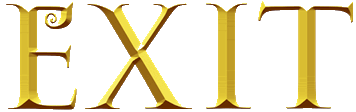
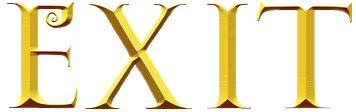
v

diff --git a/src/core/ProporzionaImmagine.java b/src/core/ProporzionaImmagine.java
@@ -51,7 +51,7 @@ public class ProporzionaImmagine {
 		}
 		else if(bottone.getButton_name() == StaticVariables.MULTIPLAYER_NAME)
 		{
-			button.setImageWidth(this.pawnCellWidth*11);
+			button.setImageWidth(this.pawnCellWidth*12);
 			button.setImageHeight(this.pawnCellWidth*2);
 		}
 		else if(bottone.getButton_name() == StaticVariables.AI_NAME)
@@ -254,12 +254,10 @@ public class ProporzionaImmagine {
        	this.caricatore_immagini.getScacchieraSfondo().get(StaticVariables.ID_TAVOLO_LEGNO).setX(this.moveToRight-this.pawnCellWidth);
        	this.caricatore_immagini.getScacchieraSfondo().get(StaticVariables.ID_TAVOLO_LEGNO).setY(this.moveToDown-this.pawnCellWidth);
        	
-    	this.caricatore_immagini.getScacchieraSfondo().get(StaticVariables.ID_LOGO).setImageWidth(this.pawnCellWidth*6);
-       	this.caricatore_immagini.getScacchieraSfondo().get(StaticVariables.ID_LOGO).setImageHeight(this.pawnCellWidth*3);
-       	this.caricatore_immagini.getScacchieraSfondo().get(StaticVariables.ID_LOGO).setX(StaticVariables.finestra_width-
-       			(this.caricatore_immagini.getScacchieraSfondo().get(StaticVariables.ID_LOGO).getImageWidth()+StaticVariables.finestra_width/20));
-       	this.caricatore_immagini.getScacchieraSfondo().get(StaticVariables.ID_LOGO).setY(
-       			this.caricatore_immagini.getScacchieraSfondo().get(StaticVariables.ID_LOGO).getImageHeight()/2);
+       	this.caricatore_immagini.getScacchieraSfondo().get(StaticVariables.ID_NASTRO).setImageWidth(this.pawnCellWidth*5);
+       	this.caricatore_immagini.getScacchieraSfondo().get(StaticVariables.ID_NASTRO).setImageHeight(this.pawnCellWidth*6);
+       	this.caricatore_immagini.getScacchieraSfondo().get(StaticVariables.ID_NASTRO).setX(StaticVariables.finestra_width-
+       			(this.caricatore_immagini.getScacchieraSfondo().get(StaticVariables.ID_NASTRO).getImageWidth()+StaticVariables.finestra_width/20));
        	
 //       	System.err.println("w frame: "+width+" pawncellwidth: "+this.pawnCellWidth+ " wframe/pawncellwidth: "+this.moveToRight);
        	

diff --git a/src/gui/CaricatoreImmagini.java b/src/gui/CaricatoreImmagini.java
@@ -17,7 +17,7 @@ public class CaricatoreImmagini {
 		this.scacchieraSfondo.put(StaticVariables.ID_SFONDO1, new Immagine(StaticVariables.ID_SFONDO1,this.pathImmagini(StaticVariables.ID_SFONDO1),-1));
 		this.scacchieraSfondo.put(StaticVariables.ID_TAVOLO, new Immagine(StaticVariables.ID_TAVOLO,this.pathImmagini(StaticVariables.ID_TAVOLO),-1));
 		this.scacchieraSfondo.put(StaticVariables.ID_TAVOLO_LEGNO, new Immagine(StaticVariables.ID_TAVOLO_LEGNO,this.pathImmagini(StaticVariables.ID_TAVOLO_LEGNO),-1));
-		this.scacchieraSfondo.put(StaticVariables.ID_LOGO, new Immagine(StaticVariables.ID_LOGO, StaticVariables.PATH_LOGO, -1));
+		this.scacchieraSfondo.put(StaticVariables.ID_NASTRO, new Immagine(StaticVariables.ID_NASTRO, StaticVariables.PATH_NASTRO, -1));
 		
 		this.scacchieraSfondo.put(StaticVariables.ID_PAPER_YOUWON, new Immagine(StaticVariables.ID_PAPER_YOUWON,StaticVariables.PATH_PAPER_YOUWON,-1));
 		this.scacchieraSfondo.put(StaticVariables.ID_PAPER_YOULOST, new Immagine(StaticVariables.ID_PAPER_YOULOST,StaticVariables.PATH_PAPER_YOULOST,-1));
@@ -77,7 +77,7 @@ public class CaricatoreImmagini {
 		case(StaticVariables.ID_TAVOLO_UNIVERSO): p = StaticVariables.PATH_TAVOLO_UNIVERSO; break;
 		case(StaticVariables.ID_TAVOLO_VERDE): p = StaticVariables.PATH_TAVOLO_VERDE; break;
 		case(StaticVariables.ID_EDITOR_BUTTON): p = StaticVariables.PATH_EDITOR_BUTTON; break;
-		case(StaticVariables.ID_LOGO): p = StaticVariables.PATH_LOGO; break;
+		case(StaticVariables.ID_NASTRO): p = StaticVariables.PATH_NASTRO; break;
 		
 		default: break;
 		}

diff --git a/src/core/Game.java b/src/core/Game.java
@@ -1,16 +1,8 @@
 package core;
 import java.util.HashMap;
 import java.util.HashSet;
-import java.util.Random;
 import java.util.Set;
-import java.util.stream.IntStream;
-
-import javax.swing.JOptionPane;
-
-import audio.Sounds;
-import gui.FinalPanel;
 import gui.Immagine;
-import gui.Menu;
 import gui.MyPanel;
 import gui.MyPlayPanel;
 import interfaces.StaticVariables;
@@ -35,11 +27,10 @@ public class Game {
 	private String type_of_intelligence;
 	private int idImmUser, idImmAi;
 	private String pathImmUser, pathImmAi;
-	private String secondPlayer_colour;
 	
 	public Game(MyPanel play_panel)
 	{
-		this.type_of_intelligence = this.secondPlayer_colour = "";
+		this.type_of_intelligence = "";
 		this.dama = new Dama();
 		this.play_panel = play_panel;
 		
@@ -178,7 +169,6 @@ public class Game {
 		int idImm = 0;
 		Immagine immagine = null;
 		System.out.println("ciao3");
-		int ic = 0, jc = 0;
 		
 		try {
 		
@@ -248,9 +238,7 @@ public class Game {
 					}
 				}
 			}
-//			}
 	  
-	  System.out.println("QUIIIIIIIIIIII");
 	  this.dama.printMatrix();
 	    
 	  System.out.println("ciao5");
@@ -297,15 +285,6 @@ public class Game {
 						}
 	}
 	
-	/**
-	 * Restituisce la coordinata opposta
-	 * @param x
-	 * @return
-	 */
-	private int opponentCoord(int x)
-	{
-		return (StaticVariables.RIGHE_COLONNE-1)-x;
-	}
 	
 	private void initAIandASP()
 	{

diff --git a/src/interfaces/StaticVariables.java b/src/interfaces/StaticVariables.java
@@ -89,7 +89,7 @@ public interface StaticVariables {
 	final static int ID_SAVE_BUTTONPRESSED = 59;
 	final static int ID_AI_PAWN = 60;
 	final static int ID_USER_PAWN = 61;
-	final static int ID_LOGO = 62;
+	final static int ID_NASTRO = 62;
 	
 	
 	
@@ -130,8 +130,7 @@ public interface StaticVariables {
 	final static String PATH_TAVOLO_UNIVERSO_PRESSED = "Images/tavoloneropressed.png";
 	final static String PATH_TAVOLO_VERDE = "Images/tavolo_verde.png";
 	final static String PATH_TAVOLO_VERDE_PRESSED = "Images/tavolo_verdepressed.png";
-	final static String PATH_LOGO = "Images/pedinem.png";
-	
+	final static String PATH_NASTRO = "Images/nastrod.png";
 	
 	
 	final static String PATH_PLAYBUTTON = "Images/play_gold.png";
@@ -158,7 +157,7 @@ public interface StaticVariables {
 	final static String PATH_SAVE_BUTTONPRESSED = "Images/save.png";
 	final static String PATH_AI_PAWN = "Images/ai_pawn.png";
 	final static String PATH_USER_PAWN ="Images/user_pawn.png";
-	final static String PATH_EDITOR_BUTTON = "Images/editor.png";
+	final static String PATH_EDITOR_BUTTON = "Images/editor22.png";
 	
 	final static String PATH_AUDIO_PROVA = "audios/click_x.wav";
 	final static String PATH_AUDIO_SOUNDTRACK = "audios/tick.wav";

diff --git a/src/Utilities/MultiplePlayerMovement.java b/src/Utilities/MultiplePlayerMovement.java
@@ -70,11 +70,17 @@ public class MultiplePlayerMovement extends Thread{
 			}
 			
 			if(!Variables.update)
+			{
+				System.out.println("sto acca1");
 			this.player.passaDaPawnFirstMoveToPawnAfterMove(clicked_cells.get(0).getI(), clicked_cells.get(0).getJ(), 
 					clicked_cells.get(1).getI(), clicked_cells.get(1).getJ(), this.player.getPawnToEat());
+			}
 			else
+			{
+				System.out.println("sto acca2");
 				((AIPlayer)this.game.getAi_player()).passaDaPawnFirstMoveToPawnAfterMoveAI(clicked_cells.get(0).getI(), clicked_cells.get(0).getJ(), 
 						clicked_cells.get(1).getI(), clicked_cells.get(1).getJ(), this.player.getPawnToEat());
+			}
 			
 			//elimino l'elemento alla posizione 0 dell'array 'clicked cells'
 			//elimino l'elemento alla posizione 0 dell'array 'ai cells'

diff --git a/src/gui/Immagine.java b/src/gui/Immagine.java
@@ -37,7 +37,7 @@ public class Immagine{
 		this.x = 0;
 	    this.y = 0;
 	    
-	    if(this.id == StaticVariables.ID_SFONDO1 || this.id == StaticVariables.ID_LOGO)
+	    if(this.id == StaticVariables.ID_SFONDO1 ||  this.id == StaticVariables.ID_NASTRO)
 	    	this.visible = true;
 	    else
 	        this.visible = false;
